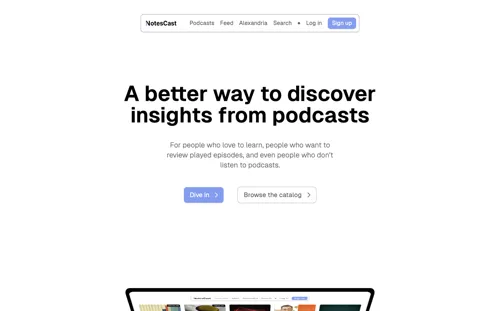
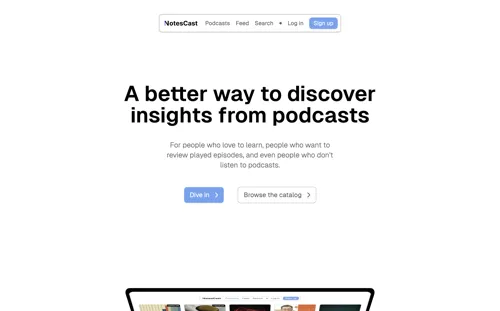
works

diff --git a/src/components/data/resume.tsx b/src/components/data/resume.tsx
@@ -69,9 +69,9 @@ export const RESUME_DATA = {
             link: {
                 href: 'https://www.notescast.com',
                 preview: [
-                    '/assets/files/projects/notescast/1.jpg',
-                    '/assets/files/projects/notescast/2.jpg',
-                    '/assets/files/projects/notescast/3.jpg',
+                    '/assets/files/projects/notescast/1.webp',
+                    '/assets/files/projects/notescast/2.webp',
+                    '/assets/files/projects/notescast/3.webp',
                 ],
             },
             title: 'Founder, Software Engineer',
